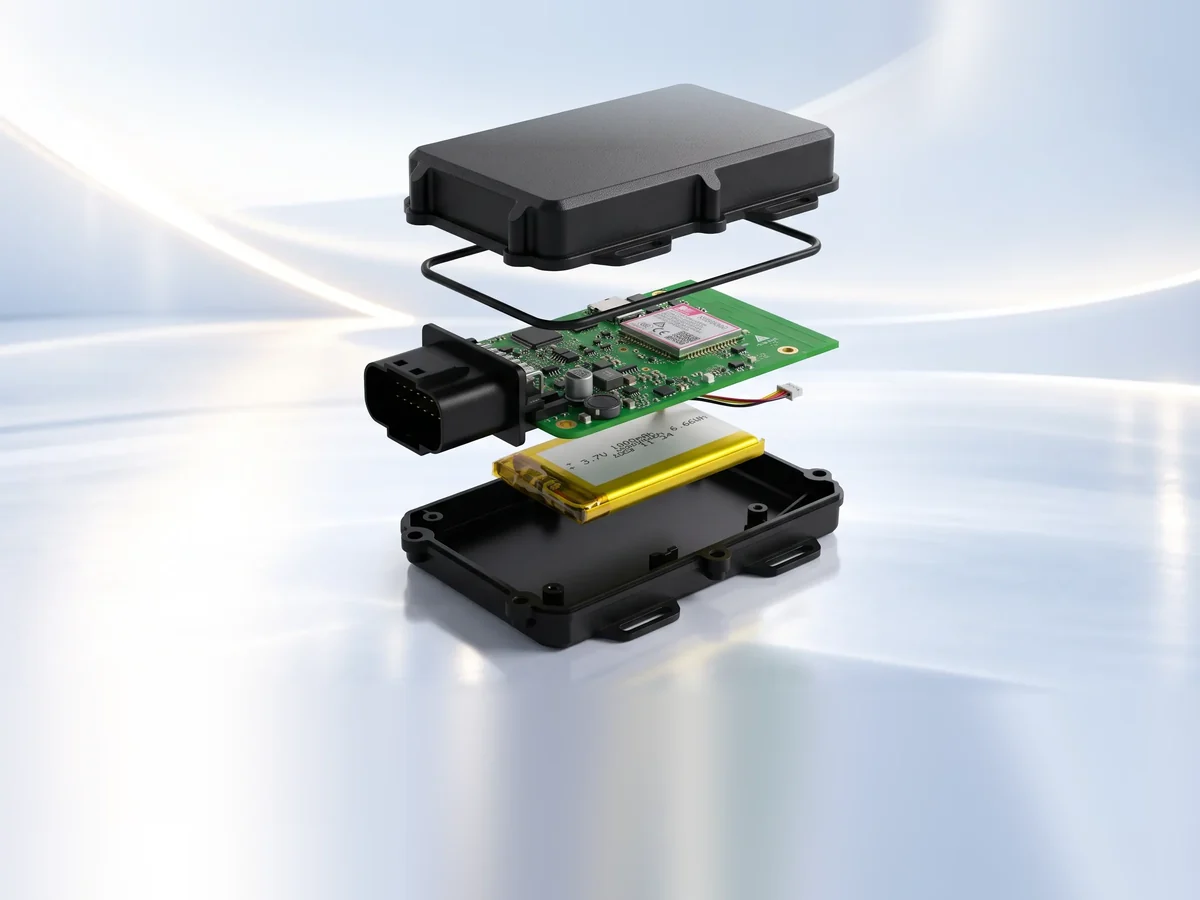
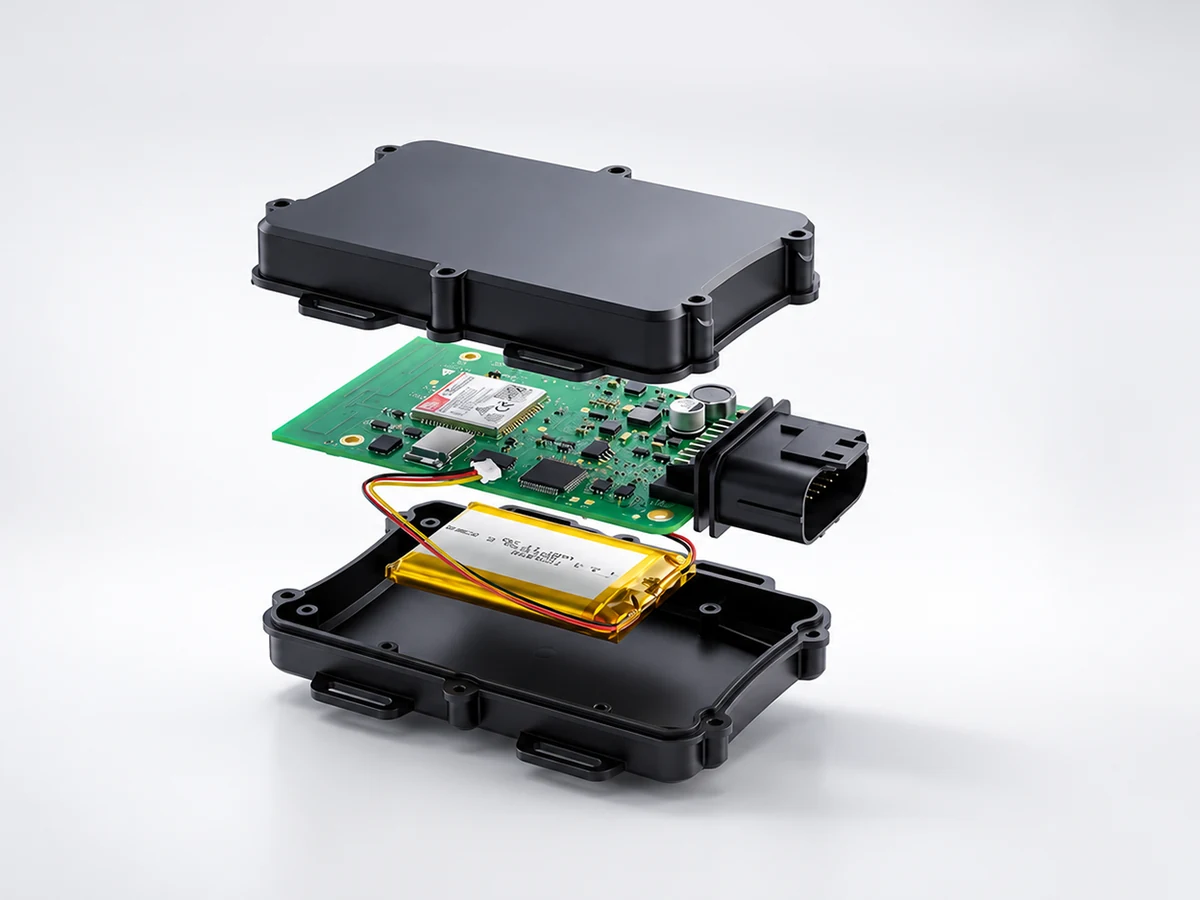
Numbers: new exploded Explorer image on light grey
Claude-Session: https://claude.ai/code/session_019hg5JKm3Ajc1VUuZ1vD315

diff --git a/index.html b/index.html
@@ -148,10 +148,12 @@ p,h1,h2,h3,ul{margin:0}
 .stats-band::after{content:"";grid-column:1;grid-row:1;z-index:1;pointer-events:none;background:linear-gradient(90deg,rgba(238,240,239,0) 0%,rgba(238,240,239,.04) 18%,rgba(238,240,239,.14) 34%,rgba(238,240,239,.3) 50%,rgba(238,240,239,.52) 66%,rgba(238,240,239,.76) 82%,rgba(238,240,239,.92) 93%,#EEF0EF 100%)}
 .stats-band:not(.has-media)::after{display:none}
 @media (min-width:861px){
-  .stats-band{background:#EEF1F6}
+  .stats-band{background:#E6E7EB}
   .stats-band > .default-pic,.stats-band > .photo,.stats-band::after{grid-column:1 / -1}
   .stats-band .photo{object-position:0% 50%}
+  .stats-band::after{background:linear-gradient(90deg,rgba(232,233,237,0) 0%,rgba(232,233,237,0) 52%,rgba(232,233,237,.35) 70%,rgba(232,233,237,.45) 100%)}
 }
+
 @media (min-width:861px) and (max-width:1199px){
   .stats-band .stats-col{padding-left:clamp(48px,7vw,84px)}
   .stats-band::after{background:linear-gradient(90deg,rgba(238,241,246,0) 0%,rgba(238,241,246,0) 46%,rgba(238,241,246,.4) 62%,rgba(238,241,246,.62) 80%,rgba(238,241,246,.7) 100%)}
@@ -172,10 +174,10 @@ p,h1,h2,h3,ul{margin:0}
 .stats-band.fx .stat.in .stat-l{opacity:1;transform:none}
 .stats-band.fx .stat.done .stat-src{visibility:visible}
 @media (max-width:860px){
-  .stats-band{grid-template-columns:1fr;background:#EEF1F6}
+  .stats-band{grid-template-columns:1fr;background:#E9E9ED}
   .stats-band .photo{object-position:50% 50%}
   .stats-band > .default-pic,.stats-band > .photo,.stats-band::after{grid-column:1;grid-row:1;height:auto;aspect-ratio:4/3;min-height:0}
-  .stats-band::after{background:linear-gradient(180deg,rgba(238,241,246,0) 0%,rgba(238,241,246,0) 72%,rgba(238,241,246,.6) 90%,#EEF1F6 100%)}
+  .stats-band::after{background:linear-gradient(180deg,rgba(233,233,237,0) 0%,rgba(233,233,237,0) 72%,rgba(233,233,237,.6) 90%,#E9E9ED 100%)}
   .stats-band:not(.has-media) .stats-col{padding-top:48px}
   .stats-col{grid-column:1;grid-row:2;padding:8px 24px 64px}
 }
@@ -775,7 +777,7 @@ p,h1,h2,h3,ul{margin:0}
   </script>
 
   <section id="numbers" class="stats-band has-media" data-sec="Numbers" data-sid="numbers" data-slot="numbers" data-slot-l="Numbers image" data-default-media="images/numbers.webp" aria-label="Canopy in numbers">
-    <picture class="default-pic"><source media="(max-width:860px)" srcset="images/numbers-mobile.webp?v=2"><img class="photo" src="images/numbers.webp?v=8" alt="An exploded view of the Explorer device: the black lid and base, the sealing gasket, the circuit board with its connector and cellular module, and the backup battery" width="2600" height="1004" loading="lazy" decoding="async"></picture>
+    <picture class="default-pic"><source media="(max-width:860px)" srcset="images/numbers-mobile.webp?v=3"><img class="photo" src="images/numbers.webp?v=9" alt="An exploded view of the Explorer device: lid, circuit board with connector and cellular module, backup battery and base" width="2400" height="1339" loading="lazy" decoding="async"></picture>
     <div class="stats-col">
       <dl class="stats-list">
         <div class="stat"><dt class="stat-l" data-k="num.1.l" data-l="Number 1 label">Vehicles connected</dt><dd class="stat-v"><span class="stat-src" data-k="num.1.v" data-l="Number 1">[X]+</span></dd></div>
